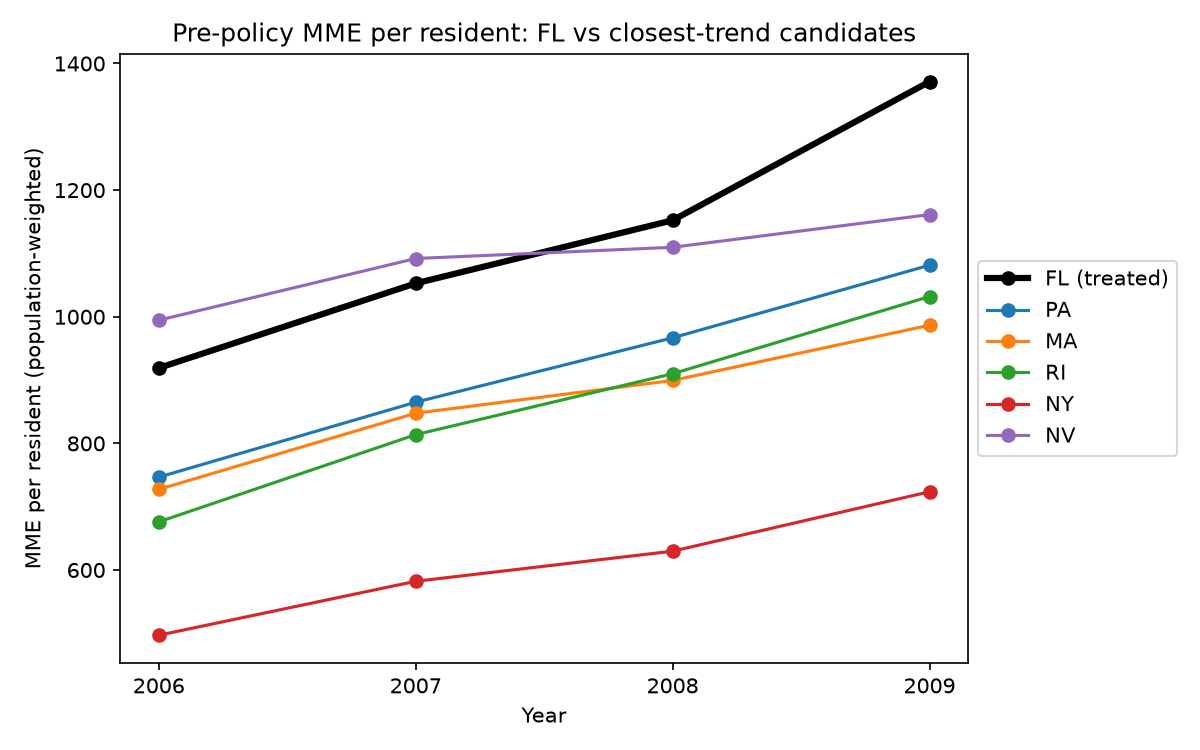
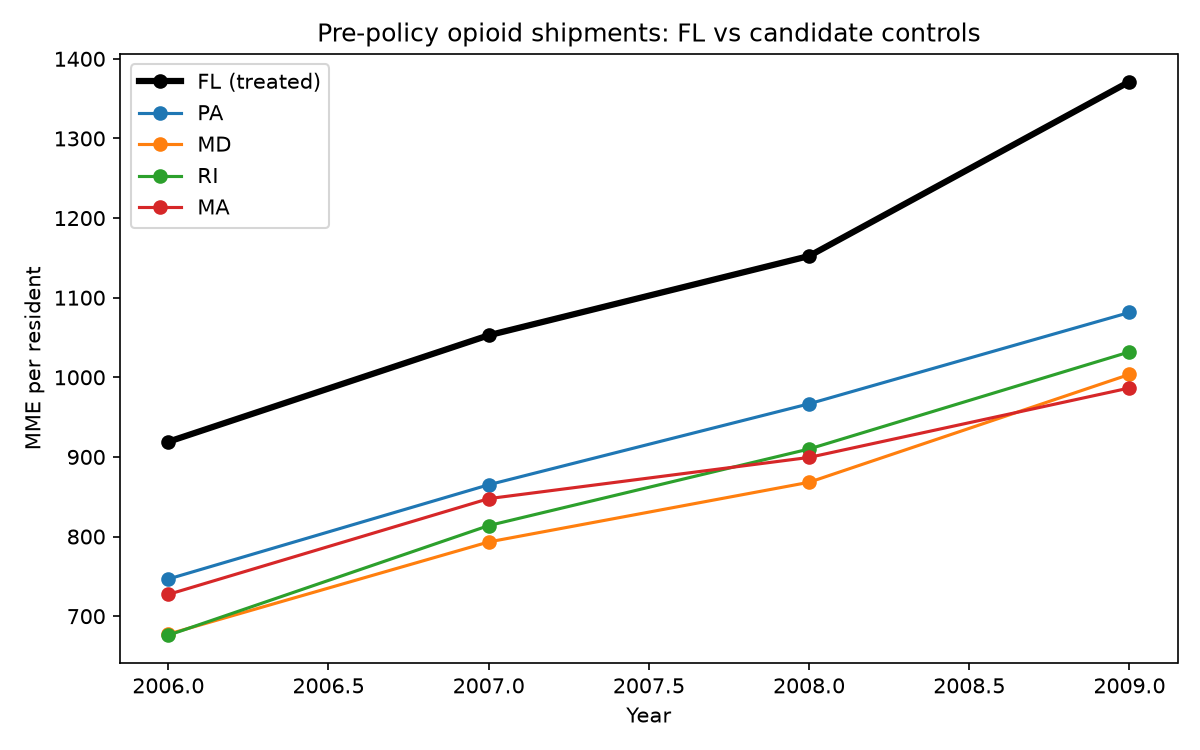
Simplify control state script to pre-trend plots

diff --git a/control_state_pretrends.py b/control_state_pretrends.py
@@ -1,154 +1,61 @@
-"""
-Compare pre-policy shipment trends to help choose control states.
-
-Only pre-policy years are used, so control choices are based on
-similarity before the policy and not on post-policy results.
-
-Outputs:
-- outputs/control_state_pretrends_FL.csv
-- outputs/control_state_pretrends_WA.csv
-- outputs/control_state_pretrends_FL.png
-- outputs/control_state_pretrends_WA.png
-"""
-
 import os
 
 import matplotlib.pyplot as plt
 import pandas as pd
-import statsmodels.formula.api as smf
+
+# Plot pre-policy shipment trends for FL, WA, and possible control states.
+# We only use years before each policy, so we choose controls
+# based on similar trends, not on post-policy results.
 
 shipments = pd.read_parquet("opioid_shipments_per_capita.parquet")
 
-# Policy start years. Florida's policy began in February 2010,
-# so 2010 is the first post-policy year. Washington's began in January 2012.
-policy_years = {"FL": 2010, "WA": 2012}
+# State-level MME per resident for each year
+state_year = shipments.groupby(["BUYER_STATE", "year"], as_index=False)[
+    ["total_mme", "population"]
+].sum()
+state_year["mme_per_capita"] = state_year["total_mme"] / state_year["population"]
 
-# States that cannot be controls:
-# - FL and WA are the treated states.
-# - TX had its own opioid regulation in January 2007.
-# - DC is not a state.
-not_controls = ["FL", "WA", "TX", "DC"]
-
-# Number of top candidates to show in each plot.
-n_plot = 5
+# Treated state: (last pre-policy year, candidate control states)
+# Candidates have similar pre-policy trends and no major opioid policy
+# change during the treated state's post-policy period.
+cases = {
+    "FL": (2009, ["PA", "MD", "RI", "MA"]),
+    "WA": (2011, ["MN", "NE", "ND"]),
+}
 
 os.makedirs("outputs", exist_ok=True)
 
-# State-year MME per resident, weighted by county population.
-state_year = shipments.groupby(["BUYER_STATE", "year"], as_index=False).agg(
-    total_mme=("total_mme", "sum"),
-    population=("population", "sum"),
-)
-state_year["mme_per_capita"] = state_year["total_mme"] / state_year["population"]
-
-candidates = sorted(set(shipments["BUYER_STATE"]) - set(not_controls))
-
-print("Candidate control states:", len(candidates))
-
-
-def pretrend_test(treated, control, last_pre_year):
-    """
-    Test whether one control state's pre-policy trend matches the treated state.
-
-    Uses county-year data from pre-policy years:
-    mme_per_capita ~ county fixed effects + year + year * treated
-
-    The year:treated coefficient is the difference in yearly slope
-    (treated minus control). Standard errors are clustered by county.
-    """
-    data = shipments[
-        shipments["BUYER_STATE"].isin([treated, control])
-        & (shipments["year"] <= last_pre_year)
-    ].copy()
-    data["treated"] = (data["BUYER_STATE"] == treated).astype(int)
-
-    model = smf.ols(
-        "mme_per_capita ~ C(county_fips) + year + year:treated",
-        data=data,
-    ).fit(cov_type="cluster", cov_kwds={"groups": data["county_fips"]})
-
-    return model.params["year:treated"], model.pvalues["year:treated"]
-
-
-for treated, policy_year in policy_years.items():
-    last_pre_year = policy_year - 1
-    pre = state_year[state_year["year"] <= last_pre_year]
-
-    treated_series = pre[pre["BUYER_STATE"] == treated].set_index("year")[
-        "mme_per_capita"
+for treated, (last_pre_year, controls) in cases.items():
+    pre = state_year[
+        state_year["BUYER_STATE"].isin([treated] + controls)
+        & (state_year["year"] <= last_pre_year)
     ]
 
-    rows = []
-    for control in candidates:
-        control_series = pre[pre["BUYER_STATE"] == control].set_index("year")[
-            "mme_per_capita"
-        ]
+    # Print the yearly values so we can compare them
+    table = pre.pivot(index="year", columns="BUYER_STATE", values="mme_per_capita")
+    print(f"\n{treated} and candidate controls, pre-policy MME per resident:")
+    print(table.round(1))
 
-        # Remove the level difference, then measure how far apart the
-        # two pre-policy paths are (root mean squared gap).
-        gap = treated_series - control_series
-        demeaned_gap = gap - gap.mean()
-        rmse_demeaned = (demeaned_gap**2).mean() ** 0.5
-
-        slope_diff, p_value = pretrend_test(treated, control, last_pre_year)
-
-        rows.append(
-            {
-                "control_state": control,
-                "pre_years": f"2006-{last_pre_year}",
-                "slope_diff_mme_per_year": slope_diff,
-                "slope_diff_p_value": p_value,
-                "rmse_demeaned_gap": rmse_demeaned,
-                "level_gap_mean": gap.mean(),
-                "control_mme_per_capita_first_year": control_series.iloc[0],
-                "n_counties": shipments.loc[
-                    shipments["BUYER_STATE"] == control, "county_fips"
-                ].nunique(),
-            }
-        )
-
-    results = pd.DataFrame(rows)
-    results["abs_slope_diff"] = results["slope_diff_mme_per_year"].abs()
-    results = results.sort_values("abs_slope_diff").reset_index(drop=True)
-
-    results.to_csv(f"outputs/control_state_pretrends_{treated}.csv", index=False)
-
-    print(f"\n{treated}: pre-policy years 2006-{last_pre_year}")
-    print(f"{treated} MME per resident by year:")
-    print(treated_series.round(1).to_string())
-    print("\nClosest pre-policy trends (smallest slope difference first):")
-    print(
-        results.drop(columns="abs_slope_diff").head(12).round(3).to_string(index=False)
-    )
-
-    # Plot the treated state and the closest candidates, pre-policy only.
-    top = results["control_state"].head(n_plot).tolist()
-
+    # Plot the treated state in black and the candidates in color
     fig, ax = plt.subplots(figsize=(8, 5))
-    ax.plot(
-        treated_series.index,
-        treated_series.values,
-        color="black",
-        linewidth=3,
-        marker="o",
-        label=f"{treated} (treated)",
-    )
-    for control in top:
-        series = pre[pre["BUYER_STATE"] == control]
-        ax.plot(
-            series["year"],
-            series["mme_per_capita"],
-            marker="o",
-            label=control,
-        )
+    for state in [treated] + controls:
+        data = pre[pre["BUYER_STATE"] == state]
+        if state == treated:
+            ax.plot(
+                data["year"],
+                data["mme_per_capita"],
+                color="black",
+                linewidth=3,
+                marker="o",
+                label=f"{state} (treated)",
+            )
+        else:
+            ax.plot(data["year"], data["mme_per_capita"], marker="o", label=state)
 
-    ax.set_title(f"Pre-policy MME per resident: {treated} vs closest-trend candidates")
+    ax.set_title(f"Pre-policy opioid shipments: {treated} vs candidate controls")
     ax.set_xlabel("Year")
-    ax.set_ylabel("MME per resident (population-weighted)")
-    ax.set_xticks(treated_series.index)
-    ax.legend(loc="center left", bbox_to_anchor=(1, 0.5))
+    ax.set_ylabel("MME per resident")
+    ax.legend()
     fig.tight_layout()
     fig.savefig(f"outputs/control_state_pretrends_{treated}.png", dpi=150)
     plt.close(fig)
-
-    print(f"\nSaved outputs/control_state_pretrends_{treated}.csv and .png")
